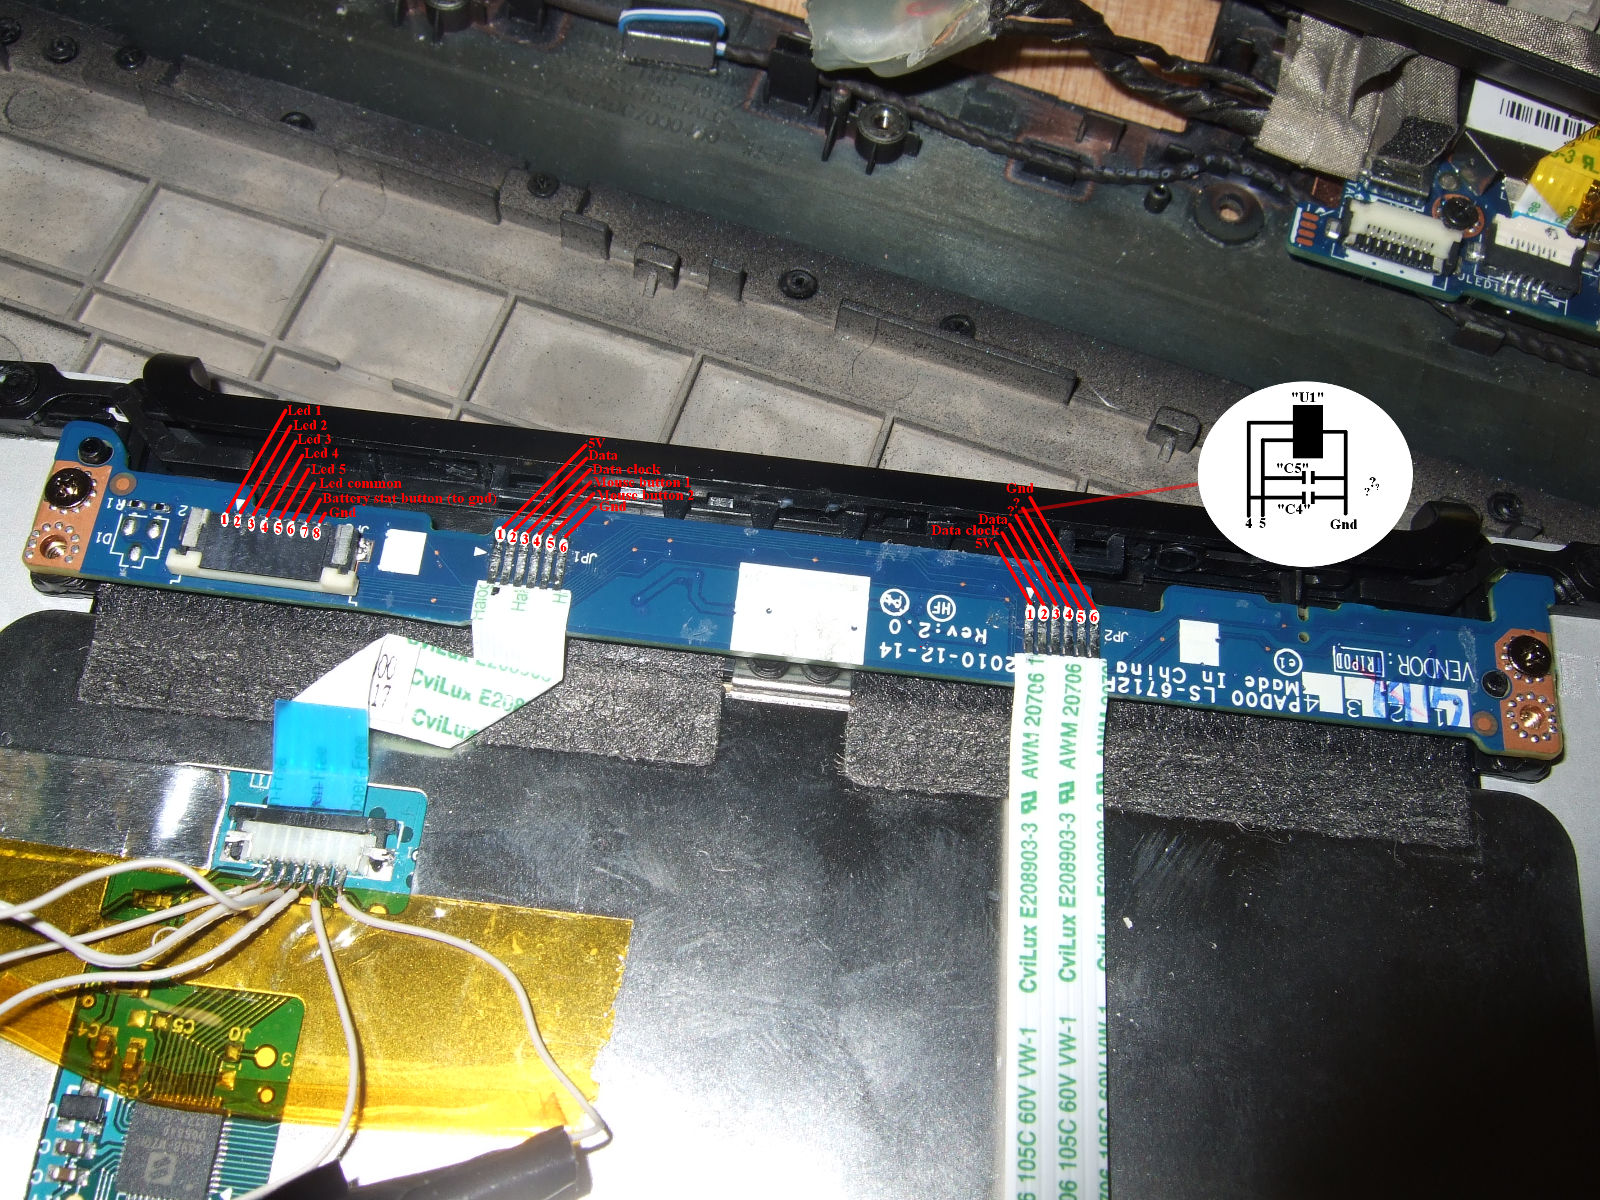
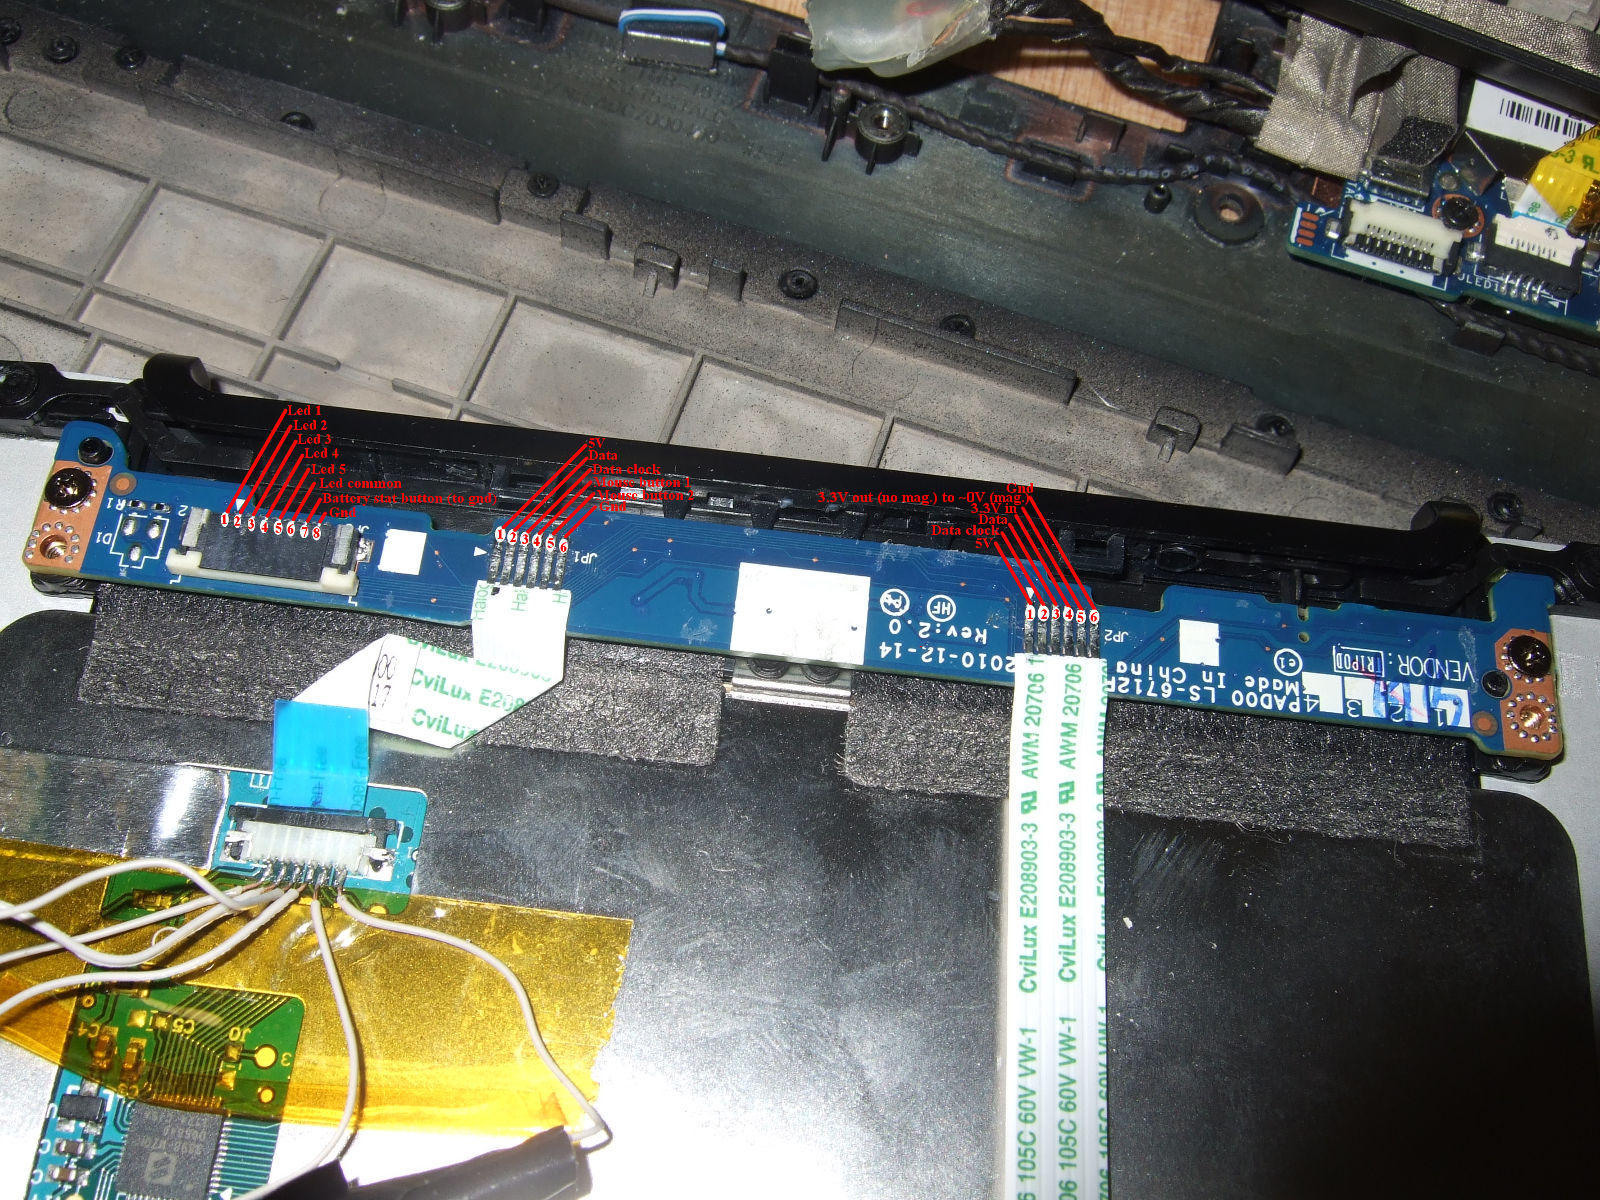
tp_board:+magnetic sensor pinouts | reorganize:main readme links to sub-projects

Changed region(s): [[0.5, 0.3083, 0.9062, 0.4933]]

diff --git a/readme.md b/readme.md
@@ -1,110 +1,74 @@
 My aim is to re-create the main board of [Motorola Lapdock](http://www.techrepublic.com/pictures/cracking-open-the-motorola-droid-bionic-lapdock/) for the purpose of using it as an input/output device for any hardware I want. (It is not a computer, only input and output devices in a look-alike package.)
 
-Even though the original board could be used with some modifications, I'm going about this the hard way, because I want to learn. I'll also be trying to re-create the panel side of the display panel controller with an FPGA and VHDL. Off-the-shelf chip (or fpga) will be used to interface HDMI / DVI / DisplayPort / USB / Ethernet / whatever custom fun people come up with.
+Even though the original board could be used with some modifications, I'm going about this the hard way, because I want to learn.
 
-At first the plan is to find out how the touchpad driver chip works, then maybe to re-use the Holtek's keyboard -> USB driver chip.
+This repository has directories for each sub-project and some common directories like datasheets and images.
 
 
 ## Specs of interest
 
 * 1366 x 768 @ 60Hz screen
-* Keyboard
-* Touchpad
+* Keyboard, Touchpad
+* Internal battery
 * 2 Speakers
 * Power on led, charging led
-* Assuming a magnetic switch somewhere to detect lid closure
-* Internal battery
+* Magnet sensor for detecting lid closure
 
 See [TechRepublic's teardown pictures](http://www.techrepublic.com/pictures/cracking-open-the-motorola-droid-bionic-lapdock/).
 
-
-## Bottom board
-
-*touchpad, battery button, battery leds, mouse buttons*
-
-* Relays touchpad data pins to "main" board
-* Connects mouse buttons to touchpad
-* Connects front battery status button and -leds to battery control board
-* "U1" has unknown function. Maybe I missed a connector lead, or maybe it's some kind of "check if board present".
-
-Nearly all pins are known:
-
-![](https://raw.githubusercontent.com/gima/motorola_lapdock/master/tp_board/tpboard_overview.jpg)
-
-### Pinouts:
-
-JP3 (to battery control board):
-
-    1 = Led 1
-    2 = Led 2
-    3 = Led 3
-    4 = Led 4
-    5 = Led 5
-    6 = Led common
-    7 = Battery stats button (to Gnd)
-    8 = Gnd
-
-JP1 (to touchpad):
-
-    1 = 5V
-    2 = Data
-    3 = Data clock
-    4 = Mouse button 1
-    5 = Mouse button 2
-    6 = Gnd
-
-JP2 (to main board):
-
-    1 = 5V
-    2 = Data clock
-    3 = Data
-    4 = ? -/- Connected to "U1"
-    5 = ? /
-    6 = Gnd
-
-- Link: [overview image](//raw.githubusercontent.com/gima/motorola_lapdock/master/tp_board/bottom%20board%20%28tp,batbtn,batleds,mbtns%29.jpg) of pinouts embedded in an image.
-- Link: [picture of "U1" (bottom-right)](https://raw.githubusercontent.com/gima/motorola_lapdock/master/tp_board/tpboard_under.jpg).
-- Link: [more stuff](//github.com/gima/motorola_lapdock/tree/master/tp_board) regarding this board.
+---
 
 
-## Touchpad
+### [_] Interfacing touchpad
 
-Help in identifying the touchpad controller chip. Couldn't even find the manufacturer based on the logo.
+    Status: Unknown driver chip, initial logic captures.
 
-- Data and clock line logic capture from moving a finger over the touchpad can be found in the [touchpad directory](//github.com/gima/motorola_lapdock/touchpad/). Clock frequency seems to be 12kHz, but the protocol is unknown. (Though that doesn't prove much at all x).
+Link: [Project's Directory](//github.com/gima/motorola_lapdock/touchpad)
 
-![](https://raw.githubusercontent.com/gima/motorola_lapdock/master/touchpad/legend.png)
+*The touchpad driver chip is not identified. Unknown protocol (to me), but operates through two wires (clock and data) at 12 kHz. Preliminary logic captures are available.*
 
-
-## Screen
-
-Not yet under work.
-
-### "JLVDS1" connector
-
-![](https://gima.github.io/motorola_lapdock/imgs/jlvds1.jpg)
-
-### Pinouts:
-
-2 x 15 pins, 30 pins in total. Couldn't find a connector matching this one.
-
-        0                 1
-        1 2 3 4 5 6 7 8 9 0 1 2 3 4 5
-      
-    1   • • • • • • G G • • G G • • G
-    2   • • G • • G • • G • • G • • G
-
-G = Gnd. Dots are as of yet unknown. [LVDS](https://en.wikipedia.org/wiki/Low-voltage_differential_signaling).
+---
 
 
-### Keyboard
+### [_] Interfacing screen
 
-The keyboard should be pretty simple. Not that I know much about it, but the pins coming out of the keyboard are probably some sort of keyboard matrix plus the keyboard leds.
+    Status: Connector is named "JLVDS1" and it's GND pins are mapped.
 
-The original main board uses [Holtek HT82K94E (USB Multimedia Keyboard Encoder 8-Bit MCU)](holtek.com/english/docum/computer/82k94x.htm) for presenting the keyboard as a USB keyboard:
+Link: [Project's Directory](//github.com/gima/motorola_lapdock/screen)
 
-![](https://gima.github.io/motorola_lapdock/imgs/holtek.jpg)
+*This project has not yet started.*
 
-- Link: [datasheet](//github.com/gima/lapdock_motorola/datasheets)
+---
 
-## eof
+
+### [_] Keyboard
+
+    Status: Assuming keyboard pins to contain keyboard matrix + leds.
+
+Link: [Project's Directory](//github.com/gima/motorola_lapdock/keyboard)
+
+*This project has not yet started, but I'm assuming that it's quite easy.*
+
+---
+
+
+### [x] Bottom board
+
+    Status: All interfacing pins mapped.
+
+Link: [Project's Directory](//github.com/gima/motorola_lapdock/tp_board)
+
+*Acts as a mediator between main board, touchpad driver and battery controller. Has two one "own" function: magnet sensor to main board.*
+
+--
+
+### [_] Battery charging, usb power out, toggle power (switch?) etc.
+
+    Status: Not yet started.
+
+Link: No project directory yet.
+
+---
+
+
+### eof

diff --git a/tp_board/readme.md b/tp_board/readme.md
@@ -1,0 +1,51 @@
+## Bottom board
+
+*touchpad, battery button, battery leds, mouse buttons, magnetic sensor*
+
+* Relays touchpad data pins to "main" board
+* Connects mouse buttons to touchpad
+* Connects front battery status button and -leds to battery control board
+* Provides magnetic sensor to main board for detecting lid closure
+
+![](https://raw.githubusercontent.com/gima/motorola_lapdock/master/tp_board/tpboard_overview.jpg)
+
+### Pinouts:
+
+*(ffc = flexible flat cable)*
+
+JP3 (ffc to battery control board):
+
+    1 = Led 1
+    2 = Led 2
+    3 = Led 3
+    4 = Led 4
+    5 = Led 5
+    6 = Led common
+    7 = Battery stats button (to Gnd)
+    8 = Gnd
+
+JP1 (ffc to touchpad):
+
+    1 = 5V
+    2 = Data
+    3 = Data clock
+    4 = Mouse button 1
+    5 = Mouse button 2
+    6 = Gnd
+
+JP2 (ffc main board):
+
+    1 = 5V from main board
+    2 = Data clock
+    3 = Data
+    4 = 3.3V from main board to U1
+    5 = From U1
+        3.3V  No magnet present (lid open)
+        0V    Magnet present (lid closed)
+    6 = Gnd
+
+Link: [Pinouts embedded in an image](//raw.githubusercontent.com/gima/motorola_lapdock/master/tp_board/bottom%20board%20%28tp,batbtn,batleds,mbtns%29.jpg).
+
+---
+
+### eof

diff --git a/keyboard/readme.md b/keyboard/readme.md
@@ -1,0 +1,21 @@
+## Interfacing keyboard
+
+This one should be pretty simple. Not that I know much about it, but I'm assuming that the keyboard pins contain some sort of keyboard matrix + keyboard led(s).
+
+The original main board uses [Holtek HT82K94E (USB Multimedia Keyboard Encoder 8-Bit MCU)](holtek.com/english/docum/computer/82k94x.htm) for presenting the keyboard as a USB keyboard, but it seems to be programmable, so the correct pin combinations are known only to the firmware. Read-out possibility? Though is it worth the effort? Will see when the work begins on this one.
+
+![](https://raw.githubusercontent.com/gima/motorola_lapdock/master/keyboard/holtek.jpg)
+
+Link: [Datasheet](//github.com/gima/motorola_lapdock/datasheets)
+
+## Connector
+
+*(ffc = flexible flat cable)*
+
+The TechRepublic's teardown (link in main readme) had a picture of this connector, but that one didn't have this dummy ffc bridge.
+
+![](https://raw.githubusercontent.com/gima/motorola_lapdock/master/keyboard/connector.jpg)
+
+---
+
+## eof

diff --git a/screen/readme.md b/screen/readme.md
@@ -1,0 +1,25 @@
+## Interfacing screen
+
+*This project has not yet started.*
+
+I'll also be trying to re-create the panel side of the display panel controller with an FPGA and VHDL. Off-the-shelf chip (or fpga) will be used to interface HDMI / DVI / DisplayPort / USB / Ethernet / whatever.
+
+### "JLVDS1" connector
+
+![](https://raw.githubusercontent.com/gima/motorola_lapdock/master/display/jlvds1.jpg)
+
+### Pinouts:
+
+2 x 15 pins, 30 pins in total. Couldn't find a connector matching this one.
+
+        0                 1
+        1 2 3 4 5 6 7 8 9 0 1 2 3 4 5
+      
+    1   • • • • • • G G • • G G • • G
+    2   • • G • • G • • G • • G • • G
+
+G = Gnd. Dots are as of yet unknown. [LVDS](https://en.wikipedia.org/wiki/Low-voltage_differential_signaling).
+
+---
+
+### eof

diff --git a/touchpad/readme.md b/touchpad/readme.md
@@ -1,0 +1,13 @@
+## Interfacing touchpad
+
+*Help in identifying the touchpad controller chip. Couldn't even find the manufacturer based on the logo.*
+
+
+- Data and clock logic capture from moving a finger over the touchpad is available.
+- Clock frequency seems to be 12kHz, but I don't know the protocol (though that doesn't prove much at all x).
+
+![](https://raw.githubusercontent.com/gima/motorola_lapdock/master/touchpad/legend.png)
+
+---
+
+### eof
